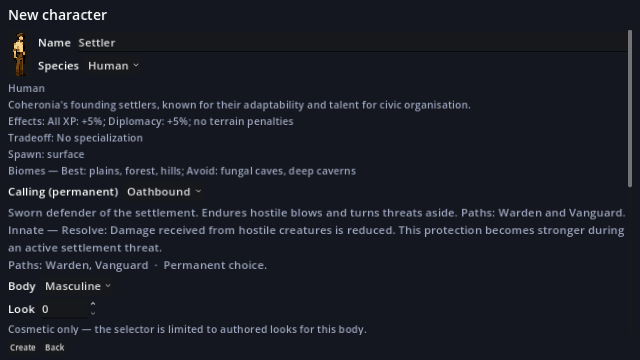
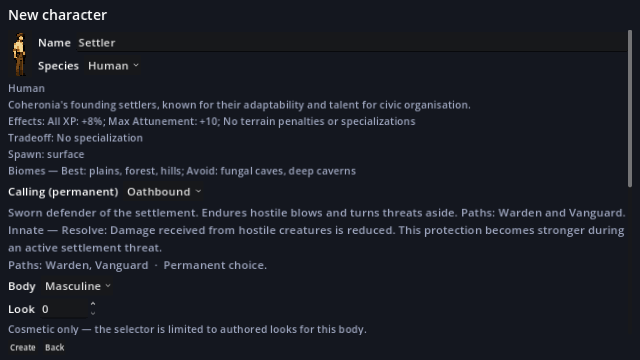
docs(callings): reflect ancestry/Calling clarity pass in README, matrices, wiki, screenshots
Public-facing truth-up for the ancestry + Calling clarity pass (8e88ff9):

- README: ancestry table gains a "Plays like" column stating each playable
  ancestry's live effects; Calling paths note the broadened Vanguard/Hearthwright
  themes.
- VARIABLE_MATRIX: ancestry rows updated (move-speed spread orc/elf/goblin, human
  1.08x / orc 0.95x learning, human +10 / elf +8 live Attunement max).
- PLAYTEST_CHECKLIST: secondary-channels watch-list updated with the new
  Hearthwright max-health/recovery sources and per-ancestry move/mining/Attunement.
- ancestry_detail: format dark_sight as a stat; trimmed the 5 playable ancestries'
  notes so the char-create panel states each effect once (no restatement).
- Regenerated wiki (12 ancestry pages) + VARIABLE_MATRIX.html mirror; refreshed the
  char-create screenshots (07, 07b) to the truthful, de-duplicated detail panel.

Windowed source smoke 609/609, wiki no-drift, VERIFY PASS.

Changed region(s): [[0.1562, 0.3056, 0.6562, 0.3667]]

diff --git a/docs/VARIABLE_MATRIX.html b/docs/VARIABLE_MATRIX.html
@@ -73,7 +73,7 @@
 <div class="table-wrap"><table><thead><tr><th>Variable</th><th>File / Field</th><th>Default</th><th>Effect</th></tr></thead><tbody><tr><td><code>base_max_health</code></td><td><code>data/character_data.json</code> <code>player_defaults.base_max_health</code></td><td>100</td><td>base max health before trait/role/ancestry bonuses (<code>player._base_max_health</code>)</td></tr><tr><td><code>hurt_cooldown_sec</code></td><td><code>data/character_data.json</code> <code>player_defaults.hurt_cooldown_sec</code></td><td>0.8</td><td>i-frame window after <code>take_damage</code>; blocks re-damage until it expires</td></tr><tr><td><code>food_heal_amount</code></td><td><code>data/character_data.json</code> <code>player_defaults.food_heal_amount</code></td><td>25</td><td>health restored per food eaten (clamped to max_health)</td></tr><tr><td><code>eat_cooldown_sec</code></td><td><code>data/character_data.json</code> <code>player_defaults.eat_cooldown_sec</code></td><td>0.5</td><td>minimum time between <code>eat_food</code> actions</td></tr><tr><td><code>passive_regen_per_sec</code></td><td><code>data/character_data.json</code> <code>player_defaults.passive_regen_per_sec</code></td><td>1.0</td><td>health/sec regenerated near the Town Hall when safe</td></tr><tr><td><code>safe_radius_px</code></td><td><code>data/character_data.json</code> <code>player_defaults.safe_radius_px</code></td><td>160</td><td>distance from hall center within which passive regen can trigger</td></tr><tr><td><code>collapse_loss_fraction</code></td><td><code>data/character_data.json</code> <code>player_defaults.collapse_loss_fraction</code></td><td>0.25</td><td>fraction (floored per stack) of carried inventory lost on collapse (health reaching 0)</td></tr><tr><td><code>low_health_fraction</code></td><td><code>data/character_data.json</code> <code>player_defaults.low_health_fraction</code></td><td>0.25</td><td>health/max_health ratio below which the HUD tints red and logs &quot;You are badly hurt.&quot; once per crossing</td></tr></tbody></table></div>
 <p>All eight keys are read once via <code>player._load_player_defaults()</code> from <code>BlockRegistry.character_data[&quot;player_defaults&quot;]</code> (same JSON-load pattern as traits/roles/appearances); missing keys fall back to the <code>DEFAULT_*</code> consts in <code>player.gd</code>.</p>
 <h2 id="fq-05-attunement-player-magic-resource">FQ-05 Attunement (Player Magic Resource)</h2>
-<div class="table-wrap"><table><thead><tr><th>Variable</th><th>File / Field</th><th>Default</th><th>Effect</th></tr></thead><tbody><tr><td><code>base_max_attunement</code></td><td><code>player_defaults.base_max_attunement</code></td><td>50</td><td>base of the computed <code>player.max_attunement()</code></td></tr><tr><td><code>attunement_regen_per_sec</code></td><td><code>player_defaults.attunement_regen_per_sec</code></td><td>2.0</td><td>constant regen everywhere (no safety gate), scaled by ancestry <code>attunement_regen_mult</code></td></tr><tr><td><code>attunement_pulse_cost</code></td><td><code>player_defaults.attunement_pulse_cost</code></td><td>15</td><td>attunement spent per light pulse (<code>attune_pulse</code> action, R)</td></tr><tr><td><code>attunement_pulse_cooldown_sec</code></td><td><code>player_defaults.attunement_pulse_cooldown_sec</code></td><td>1.0</td><td>pulse re-cast gate</td></tr><tr><td><code>attunement_pulse_duration_sec</code></td><td><code>player_defaults.attunement_pulse_duration_sec</code></td><td>4.0</td><td>pulse light fade time</td></tr><tr><td><code>player.attunement</code></td><td><code>player.gd</code> / world save (<code>player.attunement</code>)</td><td>full</td><td>current pool; world-saved next to health; pre-FQ-05 saves default to full</td></tr><tr><td><code>player.max_attunement()</code></td><td><code>player.gd</code> (computed)</td><td>50</td><td>base + ancestry <code>attunement_bonus</code> + gear <code>attunement_bonus</code> sum; perks join here at FQ-06</td></tr><tr><td><code>attunement_bonus</code> / <code>attunement_regen_mult</code></td><td><code>data/ancestries.json</code> <code>player_effects</code> (hooks; no live ancestry sets them yet) + <code>data/equipment.json</code> item effects (<code>amulet_focus</code> = +10)</td><td>0 / 1.0</td><td>ancestry additive max + regen multiplier; gear additive max</td></tr></tbody></table></div>
+<div class="table-wrap"><table><thead><tr><th>Variable</th><th>File / Field</th><th>Default</th><th>Effect</th></tr></thead><tbody><tr><td><code>base_max_attunement</code></td><td><code>player_defaults.base_max_attunement</code></td><td>50</td><td>base of the computed <code>player.max_attunement()</code></td></tr><tr><td><code>attunement_regen_per_sec</code></td><td><code>player_defaults.attunement_regen_per_sec</code></td><td>2.0</td><td>constant regen everywhere (no safety gate), scaled by ancestry <code>attunement_regen_mult</code></td></tr><tr><td><code>attunement_pulse_cost</code></td><td><code>player_defaults.attunement_pulse_cost</code></td><td>15</td><td>attunement spent per light pulse (<code>attune_pulse</code> action, R)</td></tr><tr><td><code>attunement_pulse_cooldown_sec</code></td><td><code>player_defaults.attunement_pulse_cooldown_sec</code></td><td>1.0</td><td>pulse re-cast gate</td></tr><tr><td><code>attunement_pulse_duration_sec</code></td><td><code>player_defaults.attunement_pulse_duration_sec</code></td><td>4.0</td><td>pulse light fade time</td></tr><tr><td><code>player.attunement</code></td><td><code>player.gd</code> / world save (<code>player.attunement</code>)</td><td>full</td><td>current pool; world-saved next to health; pre-FQ-05 saves default to full</td></tr><tr><td><code>player.max_attunement()</code></td><td><code>player.gd</code> (computed)</td><td>50</td><td>base + ancestry <code>attunement_bonus</code> + gear <code>attunement_bonus</code> sum; perks join here at FQ-06</td></tr><tr><td><code>attunement_bonus</code> / <code>attunement_regen_mult</code></td><td><code>data/ancestries.json</code> <code>player_effects</code> (human +10, elf +8 set the additive max; <code>attunement_regen_mult</code> reserved, no live ancestry) + <code>data/equipment.json</code> item effects (<code>amulet_focus</code> = +10)</td><td>0 / 1.0</td><td>ancestry additive max + regen multiplier; gear additive max</td></tr></tbody></table></div>
 <p>Extension points documented in <code>docs/FUTURE_PROGRESSION_RESEARCH_AND_BASE_LEVELS.md</code> (&quot;Attunement Extension Points&quot;). A non-magic character never spends or needs attunement; nothing existing is gated by it.</p>
 <h3 id="health-healing-and-collapse">Health, Healing, And Collapse</h3>
 <p>Two healing sources are wired in FQ-01: <strong>eat food</strong> (active, bound to the <code>eat_food</code> input action — key H — consumes 1 food from the inventory for an instant <code>food_heal_amount</code> heal, no-op at full health or during its own cooldown) and <strong>safe passive regen</strong> (near the Town Hall center within <code>safe_radius_px</code> and clear of any &quot;threats&quot; group node within 200px, health trickles back at <code>passive_regen_per_sec</code>; logs &quot;You feel safe near the Town Hall and begin to recover.&quot; once per regen streak). Damage still gates through the existing <code>hurt_cooldown_sec</code> i-frame window and flashes the player sprite red for ~0.2s. Reaching 0 health triggers a <strong>collapse</strong>: each carried inventory stack loses <code>floor(count * collapse_loss_fraction)</code> (deterministic, per stack) before the player respawns at the Town Hall at full health, with the log message &quot;You collapsed and awoke near the Town Hall. Some of your supplies were lost.&quot; Crossing below <code>low_health_fraction</code> of max_health logs &quot;You are badly hurt.&quot; once per crossing and tints the HUD health bar/label; it resets when health rises back above the threshold.</p>
@@ -86,7 +86,7 @@
 <h2 id="v0-5-progression-variables">v0.5 Progression Variables</h2>
 <div class="table-wrap"><table><thead><tr><th>Variable</th><th>Type</th><th>Authority</th><th>Notes</th></tr></thead><tbody><tr><td><code>xp_totals</code></td><td>dictionary (float)</td><td><code>game_root.gd</code> / <strong>character</strong> (<code>character.progression</code>)</td><td>CHARACTER-owned personal XP; per-type fractional accrual; int() at read points</td></tr><tr><td><code>player_level</code></td><td>int</td><td><code>game_root.gd</code> / <strong>character</strong> (<code>character.progression</code>)</td><td>CHARACTER-owned; carries between worlds; 100 * 1.35^(n-1) curve from <code>player_xp.json</code></td></tr><tr><td><code>base_level</code></td><td>int</td><td><code>game_root.gd</code> / <strong>world save</strong> (<code>progression.base_level</code>)</td><td>WORLD-owned settlement level (gates population); never travels with the character; ratchet 1-3 (MVP cap)</td></tr><tr><td><code>base_xp</code></td><td>int</td><td><code>game_root.gd</code> / <strong>world save</strong> (<code>progression.base_xp</code>)</td><td>WORLD-owned; informational only</td></tr><tr><td><code>_depth_hwm</code></td><td>int</td><td><code>game_root.gd</code> / <strong>character</strong> (<code>character.progression</code>)</td><td>CHARACTER-owned; 10-tile depth bands for exploration XP</td></tr><tr><td><code>effective_population_cap()</code></td><td>func</td><td><code>game_root.gd</code></td><td>base level&#x27;s unlocks.population_cap clamped to POPULATION_MAX (camp 4, hamlet 6, village 8)</td></tr><tr><td><code>xp_events</code></td><td>data</td><td><code>data/progression/player_xp.json</code></td><td>9 events wired: enemy_defeated, block_mined, block_placed, resource_deposited, storm_survived, night_survived, subject_fed, tool_crafted, new_depth_reached</td></tr></tbody></table></div>
 <h2 id="v0-5-ancestry-variables">v0.5 Ancestry Variables</h2>
-<div class="table-wrap"><table><thead><tr><th>Variable</th><th>Type</th><th>Authority</th><th>Notes</th></tr></thead><tbody><tr><td><code>ancestry_move_mult</code> / <code>ancestry_jump_mult</code></td><td>float</td><td><code>data/ancestries.json</code> -&gt; <code>player.gd</code></td><td>dwarf 0.9/0.85; elf jump 1.15 (from jump_bonus)</td></tr><tr><td><code>stone_ore_mine_mult</code></td><td>float</td><td>same</td><td>dwarf 1.2 on stone/ore blocks</td></tr><tr><td><code>ancestry_health_bonus</code></td><td>int</td><td>same</td><td>orc +25</td></tr><tr><td><code>health_reduction</code></td><td>float</td><td>same</td><td>goblin 0.8x max health (multiplicative, after bonus)</td></tr><tr><td><code>learning_speed_mult</code></td><td>float</td><td>same</td><td>human 1.05x on all award_xp amounts</td></tr><tr><td><code>phase_b_ids()</code></td><td>func</td><td><code>ancestry_registry.gd</code></td><td>derived from <code>implementation_phase == &quot;B&quot;</code> in data</td></tr></tbody></table></div>
+<div class="table-wrap"><table><thead><tr><th>Variable</th><th>Type</th><th>Authority</th><th>Notes</th></tr></thead><tbody><tr><td><code>ancestry_move_mult</code> / <code>ancestry_jump_mult</code></td><td>float</td><td><code>data/ancestries.json</code> -&gt; <code>player.gd</code></td><td>move: dwarf 0.9, orc 1.05, elf 1.08, goblin 1.12; jump: dwarf 0.85, elf 1.15 (from jump_bonus)</td></tr><tr><td><code>stone_ore_mine_mult</code></td><td>float</td><td>same</td><td>dwarf 1.2 on stone/ore blocks</td></tr><tr><td><code>ancestry_health_bonus</code></td><td>int</td><td>same</td><td>orc +25</td></tr><tr><td><code>health_reduction</code></td><td>float</td><td>same</td><td>goblin 0.8x max health (multiplicative, after bonus)</td></tr><tr><td><code>learning_speed_mult</code></td><td>float</td><td>same</td><td>human 1.08x, orc 0.95x on all award_xp amounts</td></tr><tr><td><code>phase_b_ids()</code></td><td>func</td><td><code>ancestry_registry.gd</code></td><td>derived from <code>implementation_phase == &quot;B&quot;</code> in data</td></tr></tbody></table></div>
 <h2 id="c-l-r-inputs">C/L/R Inputs</h2>
 <div class="table-wrap"><table><thead><tr><th>Input</th><th>Authority</th><th>Notes</th></tr></thead><tbody><tr><td><code>shelter_score</code></td><td><code>settlement_model.gather_inputs</code></td><td>nearby solid blocks, cap 30</td></tr><tr><td><code>light_score</code></td><td><code>settlement_model.gather_inputs</code></td><td>nearby light blocks, cap 30</td></tr><tr><td><code>stockpile_score</code></td><td><code>settlement_model.gather_inputs</code></td><td>total stock adjusted by economy difficulty</td></tr><tr><td><code>defense_score</code></td><td><code>settlement_model.gather_inputs</code></td><td>nearby defense-tagged blocks</td></tr><tr><td><code>damage_score</code></td><td><code>settlement_model.gather_inputs</code></td><td>Town Hall damage pressure</td></tr><tr><td><code>threat_score</code></td><td><code>game_root.current_threat_severity</code></td><td>night/storm/live threat severity</td></tr><tr><td><code>scarcity_penalty</code></td><td><code>settlement_model.gather_inputs</code></td><td>total stock and food shortage pressure</td></tr><tr><td><code>population_pressure</code></td><td><code>settlement_model.gather_inputs</code></td><td>population versus stockpile, scaled by ruler difficulty</td></tr></tbody></table></div>
 <p><code>coherence</code>, <code>load_value</code>, and <code>resilience</code> are formula outputs from <code>data/settlement_rules.json</code>, clamped to 0-100.</p>

diff --git a/docs/wiki/characters/ancestries/goblin.html b/docs/wiki/characters/ancestries/goblin.html
@@ -67,7 +67,7 @@
 <div class="asset-gallery"><figure class="asset-card"><img src="../../../../art/generated/players/goblin_female.png" alt="Goblin Feminine - goblin_female (Canonical image)"><figcaption>Goblin Feminine - goblin_female (Canonical image)</figcaption></figure><figure class="asset-card"><img src="../../../../art/generated/players/goblin_female_01.png" alt="Goblin Feminine - goblin_female_01 (Variant 1)"><figcaption>Goblin Feminine - goblin_female_01 (Variant 1)</figcaption></figure><figure class="asset-card"><img src="../../../../art/generated/players/goblin_female_02.png" alt="Goblin Feminine - goblin_female_02 (Variant 2)"><figcaption>Goblin Feminine - goblin_female_02 (Variant 2)</figcaption></figure></div>
 <div class="table-wrap"><table><thead><tr><th>Asset id</th><th>Role</th><th>File</th></tr></thead><tbody><tr><td><code>goblin_female</code></td><td>Canonical image</td><td><code>../../../../art/generated/players/goblin_female.png</code></td></tr><tr><td><code>goblin_female_01</code></td><td>Variant 1</td><td><code>../../../../art/generated/players/goblin_female_01.png</code></td></tr><tr><td><code>goblin_female_02</code></td><td>Variant 2</td><td><code>../../../../art/generated/players/goblin_female_02.png</code></td></tr></tbody></table></div>
 <h2 id="effects">Effects</h2>
-<div class="table-wrap"><table><thead><tr><th>Bucket</th><th>Effect</th><th>Value</th></tr></thead><tbody><tr><td>player_effects</td><td>dark_sight</td><td>3</td></tr><tr><td>player_effects</td><td>move_speed_mult</td><td>1.12</td></tr><tr><td>player_effects</td><td>health_reduction</td><td>0.8</td></tr><tr><td>player_effects</td><td>notes</td><td>[&#x27;Sees 3 tiles further in darkness&#x27;, &#x27;Moves 12% faster — small and quick&#x27;, &#x27;Fragile: 20% lower maximum health&#x27;]</td></tr><tr><td>settlement_effects</td><td>repair_cost_reduction</td><td>0.7</td></tr><tr><td>settlement_effects</td><td>trap_cost_reduction_settlement</td><td>0.7</td></tr><tr><td>settlement_effects</td><td>salvage_resilience_bonus</td><td>1.1</td></tr><tr><td>settlement_effects</td><td>baseline_coherence_penalty</td><td>-5</td></tr><tr><td>settlement_effects</td><td>notes</td><td>[&#x27;lower baseline coherence/trust&#x27;, &#x27;ruins become valuable&#x27;]</td></tr></tbody></table></div>
+<div class="table-wrap"><table><thead><tr><th>Bucket</th><th>Effect</th><th>Value</th></tr></thead><tbody><tr><td>player_effects</td><td>dark_sight</td><td>3</td></tr><tr><td>player_effects</td><td>move_speed_mult</td><td>1.12</td></tr><tr><td>player_effects</td><td>health_reduction</td><td>0.8</td></tr><tr><td>player_effects</td><td>notes</td><td>[]</td></tr><tr><td>settlement_effects</td><td>repair_cost_reduction</td><td>0.7</td></tr><tr><td>settlement_effects</td><td>trap_cost_reduction_settlement</td><td>0.7</td></tr><tr><td>settlement_effects</td><td>salvage_resilience_bonus</td><td>1.1</td></tr><tr><td>settlement_effects</td><td>baseline_coherence_penalty</td><td>-5</td></tr><tr><td>settlement_effects</td><td>notes</td><td>[&#x27;lower baseline coherence/trust&#x27;, &#x27;ruins become valuable&#x27;]</td></tr></tbody></table></div>
 <h2 id="related-pages">Related Pages</h2>
 <ul><li><a href="../../character_types.html">Character Types</a></li></ul>
           </div>

diff --git a/docs/wiki/characters/ancestries/elf.html b/docs/wiki/characters/ancestries/elf.html
@@ -67,7 +67,7 @@
 <div class="asset-gallery"><figure class="asset-card"><img src="../../../../art/generated/players/elf_female.png" alt="Elf Feminine - elf_female (Canonical image)"><figcaption>Elf Feminine - elf_female (Canonical image)</figcaption></figure><figure class="asset-card"><img src="../../../../art/generated/players/elf_female_01.png" alt="Elf Feminine - elf_female_01 (Variant 1)"><figcaption>Elf Feminine - elf_female_01 (Variant 1)</figcaption></figure><figure class="asset-card"><img src="../../../../art/generated/players/elf_female_02.png" alt="Elf Feminine - elf_female_02 (Variant 2)"><figcaption>Elf Feminine - elf_female_02 (Variant 2)</figcaption></figure></div>
 <div class="table-wrap"><table><thead><tr><th>Asset id</th><th>Role</th><th>File</th></tr></thead><tbody><tr><td><code>elf_female</code></td><td>Canonical image</td><td><code>../../../../art/generated/players/elf_female.png</code></td></tr><tr><td><code>elf_female_01</code></td><td>Variant 1</td><td><code>../../../../art/generated/players/elf_female_01.png</code></td></tr><tr><td><code>elf_female_02</code></td><td>Variant 2</td><td><code>../../../../art/generated/players/elf_female_02.png</code></td></tr></tbody></table></div>
 <h2 id="effects">Effects</h2>
-<div class="table-wrap"><table><thead><tr><th>Bucket</th><th>Effect</th><th>Value</th></tr></thead><tbody><tr><td>player_effects</td><td>jump_bonus</td><td>0.15</td></tr><tr><td>player_effects</td><td>move_speed_mult</td><td>1.08</td></tr><tr><td>player_effects</td><td>attunement_bonus</td><td>8</td></tr><tr><td>player_effects</td><td>stone_ore_mining_mult</td><td>0.85</td></tr><tr><td>player_effects</td><td>notes</td><td>[&#x27;Jumps 15% higher&#x27;, &#x27;Moves 8% faster&#x27;, &#x27;Higher maximum Attunement&#x27;, &#x27;Mines stone and ore 15% slower&#x27;]</td></tr><tr><td>settlement_effects</td><td>tree_recovery_mult</td><td>1.1</td></tr><tr><td>settlement_effects</td><td>animal_aggression_reduction</td><td>0.8</td></tr><tr><td>settlement_effects</td><td>forest_shelter_coherence_bonus</td><td>1.05</td></tr><tr><td>settlement_effects</td><td>notes</td><td>[&#x27;stone-heavy industry adds more load&#x27;]</td></tr></tbody></table></div>
+<div class="table-wrap"><table><thead><tr><th>Bucket</th><th>Effect</th><th>Value</th></tr></thead><tbody><tr><td>player_effects</td><td>jump_bonus</td><td>0.15</td></tr><tr><td>player_effects</td><td>move_speed_mult</td><td>1.08</td></tr><tr><td>player_effects</td><td>attunement_bonus</td><td>8</td></tr><tr><td>player_effects</td><td>stone_ore_mining_mult</td><td>0.85</td></tr><tr><td>player_effects</td><td>notes</td><td>[]</td></tr><tr><td>settlement_effects</td><td>tree_recovery_mult</td><td>1.1</td></tr><tr><td>settlement_effects</td><td>animal_aggression_reduction</td><td>0.8</td></tr><tr><td>settlement_effects</td><td>forest_shelter_coherence_bonus</td><td>1.05</td></tr><tr><td>settlement_effects</td><td>notes</td><td>[&#x27;stone-heavy industry adds more load&#x27;]</td></tr></tbody></table></div>
 <h2 id="related-pages">Related Pages</h2>
 <ul><li><a href="../../character_types.html">Character Types</a></li></ul>
           </div>

diff --git a/docs/wiki/characters/ancestries/dwarf.html b/docs/wiki/characters/ancestries/dwarf.html
@@ -67,7 +67,7 @@
 <div class="asset-gallery"><figure class="asset-card"><img src="../../../../art/generated/players/dwarf_female.png" alt="Dwarf Feminine - dwarf_female (Canonical image)"><figcaption>Dwarf Feminine - dwarf_female (Canonical image)</figcaption></figure><figure class="asset-card"><img src="../../../../art/generated/players/dwarf_female_01.png" alt="Dwarf Feminine - dwarf_female_01 (Variant 1)"><figcaption>Dwarf Feminine - dwarf_female_01 (Variant 1)</figcaption></figure><figure class="asset-card"><img src="../../../../art/generated/players/dwarf_female_02.png" alt="Dwarf Feminine - dwarf_female_02 (Variant 2)"><figcaption>Dwarf Feminine - dwarf_female_02 (Variant 2)</figcaption></figure></div>
 <div class="table-wrap"><table><thead><tr><th>Asset id</th><th>Role</th><th>File</th></tr></thead><tbody><tr><td><code>dwarf_female</code></td><td>Canonical image</td><td><code>../../../../art/generated/players/dwarf_female.png</code></td></tr><tr><td><code>dwarf_female_01</code></td><td>Variant 1</td><td><code>../../../../art/generated/players/dwarf_female_01.png</code></td></tr><tr><td><code>dwarf_female_02</code></td><td>Variant 2</td><td><code>../../../../art/generated/players/dwarf_female_02.png</code></td></tr></tbody></table></div>
 <h2 id="effects">Effects</h2>
-<div class="table-wrap"><table><thead><tr><th>Bucket</th><th>Effect</th><th>Value</th></tr></thead><tbody><tr><td>player_effects</td><td>dark_sight</td><td>3</td></tr><tr><td>player_effects</td><td>stone_ore_mining_mult</td><td>1.2</td></tr><tr><td>player_effects</td><td>move_speed_mult</td><td>0.9</td></tr><tr><td>player_effects</td><td>jump_mult</td><td>0.85</td></tr><tr><td>player_effects</td><td>notes</td><td>[&#x27;Sees 3 tiles further in darkness&#x27;, &#x27;Mines stone and ore 20% faster&#x27;, &#x27;Slower and lower-jumping than most&#x27;]</td></tr><tr><td>settlement_effects</td><td>stone_resilience_mult</td><td>1.1</td></tr><tr><td>settlement_effects</td><td>ore_stockpile_value_mult</td><td>1.1</td></tr><tr><td>settlement_effects</td><td>notes</td><td>[&#x27;lower food/forest efficiency&#x27;]</td></tr></tbody></table></div>
+<div class="table-wrap"><table><thead><tr><th>Bucket</th><th>Effect</th><th>Value</th></tr></thead><tbody><tr><td>player_effects</td><td>dark_sight</td><td>3</td></tr><tr><td>player_effects</td><td>stone_ore_mining_mult</td><td>1.2</td></tr><tr><td>player_effects</td><td>move_speed_mult</td><td>0.9</td></tr><tr><td>player_effects</td><td>jump_mult</td><td>0.85</td></tr><tr><td>player_effects</td><td>notes</td><td>[]</td></tr><tr><td>settlement_effects</td><td>stone_resilience_mult</td><td>1.1</td></tr><tr><td>settlement_effects</td><td>ore_stockpile_value_mult</td><td>1.1</td></tr><tr><td>settlement_effects</td><td>notes</td><td>[&#x27;lower food/forest efficiency&#x27;]</td></tr></tbody></table></div>
 <h2 id="related-pages">Related Pages</h2>
 <ul><li><a href="../../character_types.html">Character Types</a></li></ul>
           </div>

diff --git a/docs/wiki/characters/ancestries/orc.html b/docs/wiki/characters/ancestries/orc.html
@@ -67,7 +67,7 @@
 <div class="asset-gallery"><figure class="asset-card"><img src="../../../../art/generated/players/orc_female.png" alt="Orc Feminine - orc_female (Canonical image)"><figcaption>Orc Feminine - orc_female (Canonical image)</figcaption></figure><figure class="asset-card"><img src="../../../../art/generated/players/orc_female_01.png" alt="Orc Feminine - orc_female_01 (Variant 1)"><figcaption>Orc Feminine - orc_female_01 (Variant 1)</figcaption></figure><figure class="asset-card"><img src="../../../../art/generated/players/orc_female_02.png" alt="Orc Feminine - orc_female_02 (Variant 2)"><figcaption>Orc Feminine - orc_female_02 (Variant 2)</figcaption></figure></div>
 <div class="table-wrap"><table><thead><tr><th>Asset id</th><th>Role</th><th>File</th></tr></thead><tbody><tr><td><code>orc_female</code></td><td>Canonical image</td><td><code>../../../../art/generated/players/orc_female.png</code></td></tr><tr><td><code>orc_female_01</code></td><td>Variant 1</td><td><code>../../../../art/generated/players/orc_female_01.png</code></td></tr><tr><td><code>orc_female_02</code></td><td>Variant 2</td><td><code>../../../../art/generated/players/orc_female_02.png</code></td></tr></tbody></table></div>
 <h2 id="effects">Effects</h2>
-<div class="table-wrap"><table><thead><tr><th>Bucket</th><th>Effect</th><th>Value</th></tr></thead><tbody><tr><td>player_effects</td><td>health_bonus</td><td>25</td></tr><tr><td>player_effects</td><td>move_speed_mult</td><td>1.05</td></tr><tr><td>player_effects</td><td>learning_speed_mult</td><td>0.95</td></tr><tr><td>player_effects</td><td>notes</td><td>[&#x27;+25 maximum health&#x27;, &#x27;Moves 5% faster&#x27;, &#x27;Learns skills 5% slower (-5% XP)&#x27;]</td></tr><tr><td>settlement_effects</td><td>raid_fear_reduction</td><td>0.8</td></tr><tr><td>settlement_effects</td><td>militia_strength_mult</td><td>1.1</td></tr><tr><td>settlement_effects</td><td>expansion_pressure_reduction</td><td>0.8</td></tr><tr><td>settlement_effects</td><td>notes</td><td>[&#x27;diplomacy and subtle governance harder&#x27;]</td></tr></tbody></table></div>
+<div class="table-wrap"><table><thead><tr><th>Bucket</th><th>Effect</th><th>Value</th></tr></thead><tbody><tr><td>player_effects</td><td>health_bonus</td><td>25</td></tr><tr><td>player_effects</td><td>move_speed_mult</td><td>1.05</td></tr><tr><td>player_effects</td><td>learning_speed_mult</td><td>0.95</td></tr><tr><td>player_effects</td><td>notes</td><td>[]</td></tr><tr><td>settlement_effects</td><td>raid_fear_reduction</td><td>0.8</td></tr><tr><td>settlement_effects</td><td>militia_strength_mult</td><td>1.1</td></tr><tr><td>settlement_effects</td><td>expansion_pressure_reduction</td><td>0.8</td></tr><tr><td>settlement_effects</td><td>notes</td><td>[&#x27;diplomacy and subtle governance harder&#x27;]</td></tr></tbody></table></div>
 <h2 id="related-pages">Related Pages</h2>
 <ul><li><a href="../../character_types.html">Character Types</a></li></ul>
           </div>

diff --git a/docs/wiki/characters/ancestries/human.html b/docs/wiki/characters/ancestries/human.html
@@ -67,7 +67,7 @@
 <div class="asset-gallery"><figure class="asset-card"><img src="../../../../art/generated/players/human_female.png" alt="Human Feminine - human_female (Canonical image)"><figcaption>Human Feminine - human_female (Canonical image)</figcaption></figure><figure class="asset-card"><img src="../../../../art/generated/players/human_female_01.png" alt="Human Feminine - human_female_01 (Variant 1)"><figcaption>Human Feminine - human_female_01 (Variant 1)</figcaption></figure><figure class="asset-card"><img src="../../../../art/generated/players/human_female_02.png" alt="Human Feminine - human_female_02 (Variant 2)"><figcaption>Human Feminine - human_female_02 (Variant 2)</figcaption></figure></div>
 <div class="table-wrap"><table><thead><tr><th>Asset id</th><th>Role</th><th>File</th></tr></thead><tbody><tr><td><code>human_female</code></td><td>Canonical image</td><td><code>../../../../art/generated/players/human_female.png</code></td></tr><tr><td><code>human_female_01</code></td><td>Variant 1</td><td><code>../../../../art/generated/players/human_female_01.png</code></td></tr><tr><td><code>human_female_02</code></td><td>Variant 2</td><td><code>../../../../art/generated/players/human_female_02.png</code></td></tr></tbody></table></div>
 <h2 id="effects">Effects</h2>
-<div class="table-wrap"><table><thead><tr><th>Bucket</th><th>Effect</th><th>Value</th></tr></thead><tbody><tr><td>player_effects</td><td>learning_speed_mult</td><td>1.08</td></tr><tr><td>player_effects</td><td>attunement_bonus</td><td>10</td></tr><tr><td>player_effects</td><td>notes</td><td>[&#x27;Learns every skill faster (+8% XP)&#x27;, &#x27;Higher maximum Attunement&#x27;, &#x27;No terrain penalties or specializations&#x27;]</td></tr><tr><td>settlement_effects</td><td>civic_upgrade_speed_mult</td><td>1.05</td></tr><tr><td>settlement_effects</td><td>mixed_coherence_mult</td><td>1.05</td></tr><tr><td>settlement_effects</td><td>notes</td><td>[&#x27;better mixed-population coherence&#x27;, &#x27;no terrain specialization&#x27;]</td></tr></tbody></table></div>
+<div class="table-wrap"><table><thead><tr><th>Bucket</th><th>Effect</th><th>Value</th></tr></thead><tbody><tr><td>player_effects</td><td>learning_speed_mult</td><td>1.08</td></tr><tr><td>player_effects</td><td>attunement_bonus</td><td>10</td></tr><tr><td>player_effects</td><td>notes</td><td>[&#x27;No terrain penalties or specializations&#x27;]</td></tr><tr><td>settlement_effects</td><td>civic_upgrade_speed_mult</td><td>1.05</td></tr><tr><td>settlement_effects</td><td>mixed_coherence_mult</td><td>1.05</td></tr><tr><td>settlement_effects</td><td>notes</td><td>[&#x27;better mixed-population coherence&#x27;, &#x27;no terrain specialization&#x27;]</td></tr></tbody></table></div>
 <h2 id="related-pages">Related Pages</h2>
 <ul><li><a href="../../character_types.html">Character Types</a></li></ul>
           </div>

diff --git a/README.md b/README.md
@@ -111,23 +111,23 @@ The in-game **Goals** panel (**O**) walks you through all **seven** objectives f
 
 At character creation you pick a playable **ancestry** and a permanent **Calling**, then grow that Calling's skill tree as you level.
 
-**Ancestries** — five playable peoples, each with its own look and innate bent (further ancestries exist as validated data awaiting their phases):
+**Ancestries** — five playable peoples, each with its own look and a distinct set of live effects, no two alike (further ancestries exist as validated data awaiting their phases):
 
-| Ancestry | Bent |
-|---|---|
-| **Human** | Adaptable founding settlers with a talent for civic organisation. |
-| **Dwarf** | Mountain-born craftspeople, at home among stone halls and ore routes. |
-| **Elf** | Forest-keepers who thrive in harmony with the land. |
-| **Orc** | Frontier-hardened warriors built for rough, contested ground. |
-| **Goblin** | Resourceful scavengers who turn ruins into workshops and traps. |
+| Ancestry | Bent | Plays like |
+|---|---|---|
+| **Human** | Adaptable founding settlers with a talent for civic organisation. | Learns every skill faster (+XP) and holds more Attunement; no terrain penalties. |
+| **Dwarf** | Mountain-born craftspeople, at home among stone halls and ore routes. | Mines stone and ore fast and sees in the dark, but moves and jumps poorly. |
+| **Elf** | Forest-keepers who thrive in harmony with the land. | Swift and high-jumping with deep Attunement, but a poor miner. |
+| **Orc** | Frontier-hardened warriors built for rough, contested ground. | Tough (+max health) with a strong stride, but slow to learn skills. |
+| **Goblin** | Resourceful scavengers who turn ruins into workshops and traps. | Quick and dark-sighted, but fragile — lower maximum health. |
 
 **Callings** — one permanent identity chosen at creation, each an innate effect plus **two Paths of twelve tiered skills** (24 per Calling; every skill wired to a real gameplay effect). Open the tree with **K** — a clickable **star constellation**; spend points as you level, with reachability-safe tier gates.
 
 | Calling | Innate | Two Paths |
 |---|---|---|
-| **Oathbound** — sworn defender | Takes reduced damage from enemies, and the protection strengthens while the settlement is under assault. | **Warden** (defense & resilience) · **Vanguard** (weapon power) |
+| **Oathbound** — sworn defender | Takes reduced damage from enemies, and the protection strengthens while the settlement is under assault. | **Warden** (defense & resilience) · **Vanguard** (weapon power, momentum & the finishing blow) |
 | **Wayfarer** — ranging explorer | Moves faster beyond the walls and permanently reveals more of the map. | **Prospector** (mining & ore) · **Trailseeker** (mobility & scouting) |
-| **Runewright** — keeper of hearth & resonance | Structure repairs restore more health, and Attunement bonuses reach further. | **Hearthwright** (repair & building) · **Resonant** (Attunement & the light-pulse) |
+| **Runewright** — keeper of hearth & resonance | Structure repairs restore more health, and Attunement bonuses reach further. | **Hearthwright** (repair, building & upkeep) · **Resonant** (Attunement & the light-pulse) |
 
 </details>
 

diff --git a/docs/VARIABLE_MATRIX.md b/docs/VARIABLE_MATRIX.md
@@ -270,7 +270,7 @@ All eight keys are read once via `player._load_player_defaults()` from `BlockReg
 | `attunement_pulse_duration_sec` | `player_defaults.attunement_pulse_duration_sec` | 4.0 | pulse light fade time |
 | `player.attunement` | `player.gd` / world save (`player.attunement`) | full | current pool; world-saved next to health; pre-FQ-05 saves default to full |
 | `player.max_attunement()` | `player.gd` (computed) | 50 | base + ancestry `attunement_bonus` + gear `attunement_bonus` sum; perks join here at FQ-06 |
-| `attunement_bonus` / `attunement_regen_mult` | `data/ancestries.json` `player_effects` (hooks; no live ancestry sets them yet) + `data/equipment.json` item effects (`amulet_focus` = +10) | 0 / 1.0 | ancestry additive max + regen multiplier; gear additive max |
+| `attunement_bonus` / `attunement_regen_mult` | `data/ancestries.json` `player_effects` (human +10, elf +8 set the additive max; `attunement_regen_mult` reserved, no live ancestry) + `data/equipment.json` item effects (`amulet_focus` = +10) | 0 / 1.0 | ancestry additive max + regen multiplier; gear additive max |
 
 Extension points documented in `docs/FUTURE_PROGRESSION_RESEARCH_AND_BASE_LEVELS.md` ("Attunement Extension Points"). A non-magic character never spends or needs attunement; nothing existing is gated by it.
 
@@ -385,11 +385,11 @@ Two healing sources are wired in FQ-01: **eat food** (active, bound to the `eat_
 
 | Variable | Type | Authority | Notes |
 |---|---|---|---|
-| `ancestry_move_mult` / `ancestry_jump_mult` | float | `data/ancestries.json` -> `player.gd` | dwarf 0.9/0.85; elf jump 1.15 (from jump_bonus) |
+| `ancestry_move_mult` / `ancestry_jump_mult` | float | `data/ancestries.json` -> `player.gd` | move: dwarf 0.9, orc 1.05, elf 1.08, goblin 1.12; jump: dwarf 0.85, elf 1.15 (from jump_bonus) |
 | `stone_ore_mine_mult` | float | same | dwarf 1.2 on stone/ore blocks |
 | `ancestry_health_bonus` | int | same | orc +25 |
 | `health_reduction` | float | same | goblin 0.8x max health (multiplicative, after bonus) |
-| `learning_speed_mult` | float | same | human 1.05x on all award_xp amounts |
+| `learning_speed_mult` | float | same | human 1.08x, orc 0.95x on all award_xp amounts |
 | `phase_b_ids()` | func | `ancestry_registry.gd` | derived from `implementation_phase == "B"` in data |
 
 ## C/L/R Inputs

diff --git a/docs/PLAYTEST_CHECKLIST.md b/docs/PLAYTEST_CHECKLIST.md
@@ -141,11 +141,15 @@ notes if the read is full (capstone bought) or partial (and which tiers missing)
 ## Secondary channels — glance only (record only if a value looks egregious)
 
 Not the D3 focus, but note any that feel obviously out of band during the runs:
-max health (Warden: Tempered Frame + Stand Together); armor protection; mining
-speed (Prospector: Stonewise + Practiced Swing + Master of the Deep); move speed
-(Trailseeker: Trailcraft + Farwalker + Deep Stride + Familiar Ground + Beyond the
-Known); Attunement pulse radius / duration / cost (Resonant); extra-yield roll
-rates (Clean Extraction / Stone Economy / Woodwise / Forager's Share).
+max health (Warden: Tempered Frame + Stand Together; **now also Hearthwright:
+Steady Placement + Coordinated Labor**; Orc ancestry +25); armor protection;
+mining speed (Prospector: Stonewise + Practiced Swing + Master of the Deep; Dwarf
++20% / Elf −15%); move speed (Trailseeker: Trailcraft + Farwalker + Deep Stride +
+Familiar Ground + Beyond the Known; **plus ancestry base: Goblin +12% / Elf +8% /
+Orc +5% / Dwarf −10%**); Attunement max/pulse (Resonant; Human +10 / Elf +8
+ancestry max); at-hearth recovery (**Hearthwright: Repairer's Example + Hearth
+Efficiency**); extra-yield roll rates (Clean Extraction / Stone Economy /
+Woodwise / Forager's Share).
 
 - [ ] No secondary channel is so lopsided it needs to jump the D3 queue. If one is,
       note it here (do not tune it now): ____________________________________

diff --git a/docs/wiki/characters/ancestries/human.md b/docs/wiki/characters/ancestries/human.md
@@ -54,7 +54,7 @@ This ancestry currently maps to live player body art, so the current wiki mirror
 |---|---|---|
 | player_effects | learning_speed_mult | 1.08 |
 | player_effects | attunement_bonus | 10 |
-| player_effects | notes | ['Learns every skill faster (+8% XP)', 'Higher maximum Attunement', 'No terrain penalties or specializations'] |
+| player_effects | notes | ['No terrain penalties or specializations'] |
 | settlement_effects | civic_upgrade_speed_mult | 1.05 |
 | settlement_effects | mixed_coherence_mult | 1.05 |
 | settlement_effects | notes | ['better mixed-population coherence', 'no terrain specialization'] |

diff --git a/docs/wiki/characters/ancestries/dwarf.md b/docs/wiki/characters/ancestries/dwarf.md
@@ -56,7 +56,7 @@ This ancestry currently maps to live player body art, so the current wiki mirror
 | player_effects | stone_ore_mining_mult | 1.2 |
 | player_effects | move_speed_mult | 0.9 |
 | player_effects | jump_mult | 0.85 |
-| player_effects | notes | ['Sees 3 tiles further in darkness', 'Mines stone and ore 20% faster', 'Slower and lower-jumping than most'] |
+| player_effects | notes | [] |
 | settlement_effects | stone_resilience_mult | 1.1 |
 | settlement_effects | ore_stockpile_value_mult | 1.1 |
 | settlement_effects | notes | ['lower food/forest efficiency'] |

diff --git a/docs/wiki/characters/ancestries/elf.md b/docs/wiki/characters/ancestries/elf.md
@@ -56,7 +56,7 @@ This ancestry currently maps to live player body art, so the current wiki mirror
 | player_effects | move_speed_mult | 1.08 |
 | player_effects | attunement_bonus | 8 |
 | player_effects | stone_ore_mining_mult | 0.85 |
-| player_effects | notes | ['Jumps 15% higher', 'Moves 8% faster', 'Higher maximum Attunement', 'Mines stone and ore 15% slower'] |
+| player_effects | notes | [] |
 | settlement_effects | tree_recovery_mult | 1.1 |
 | settlement_effects | animal_aggression_reduction | 0.8 |
 | settlement_effects | forest_shelter_coherence_bonus | 1.05 |
